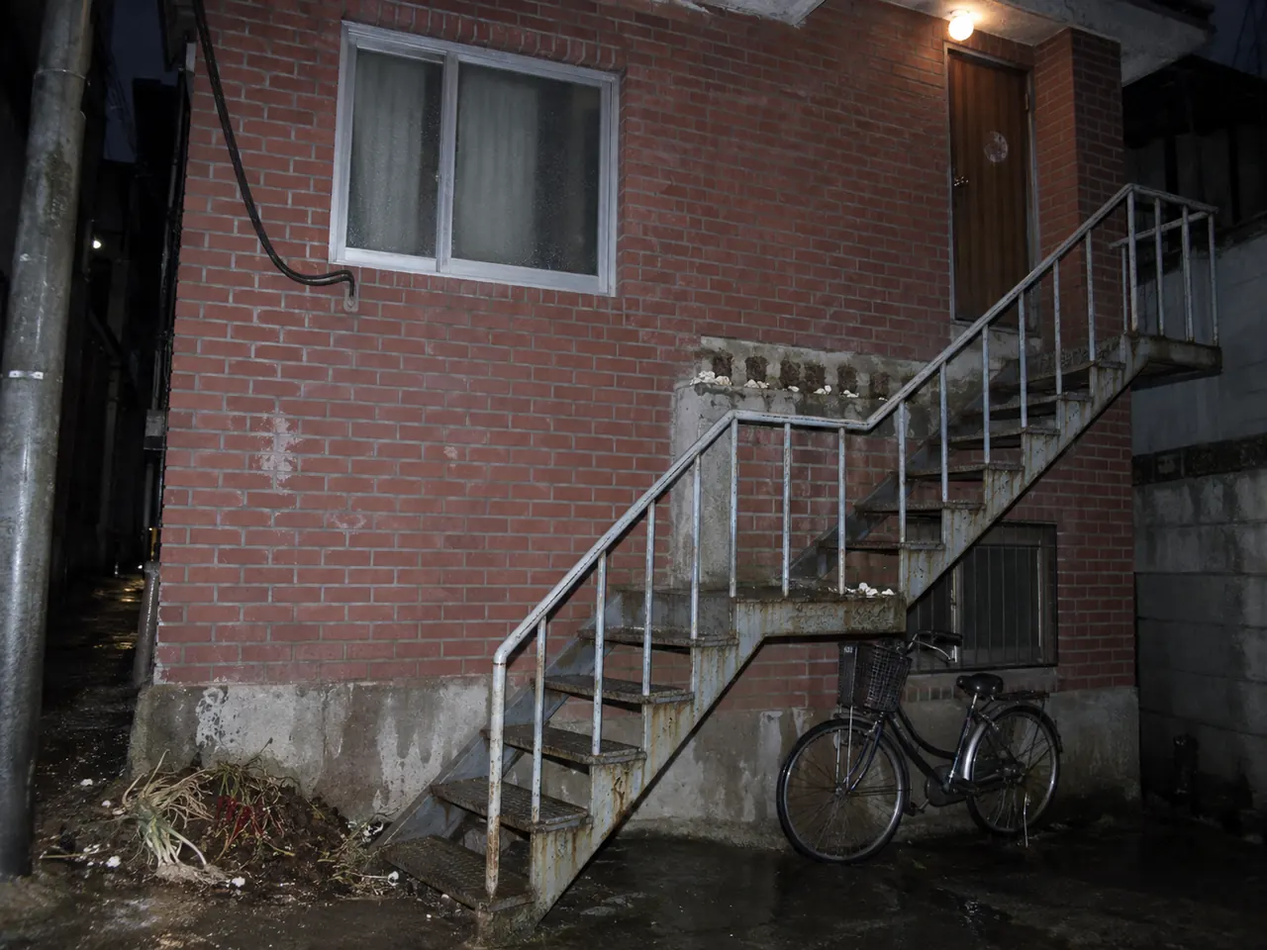
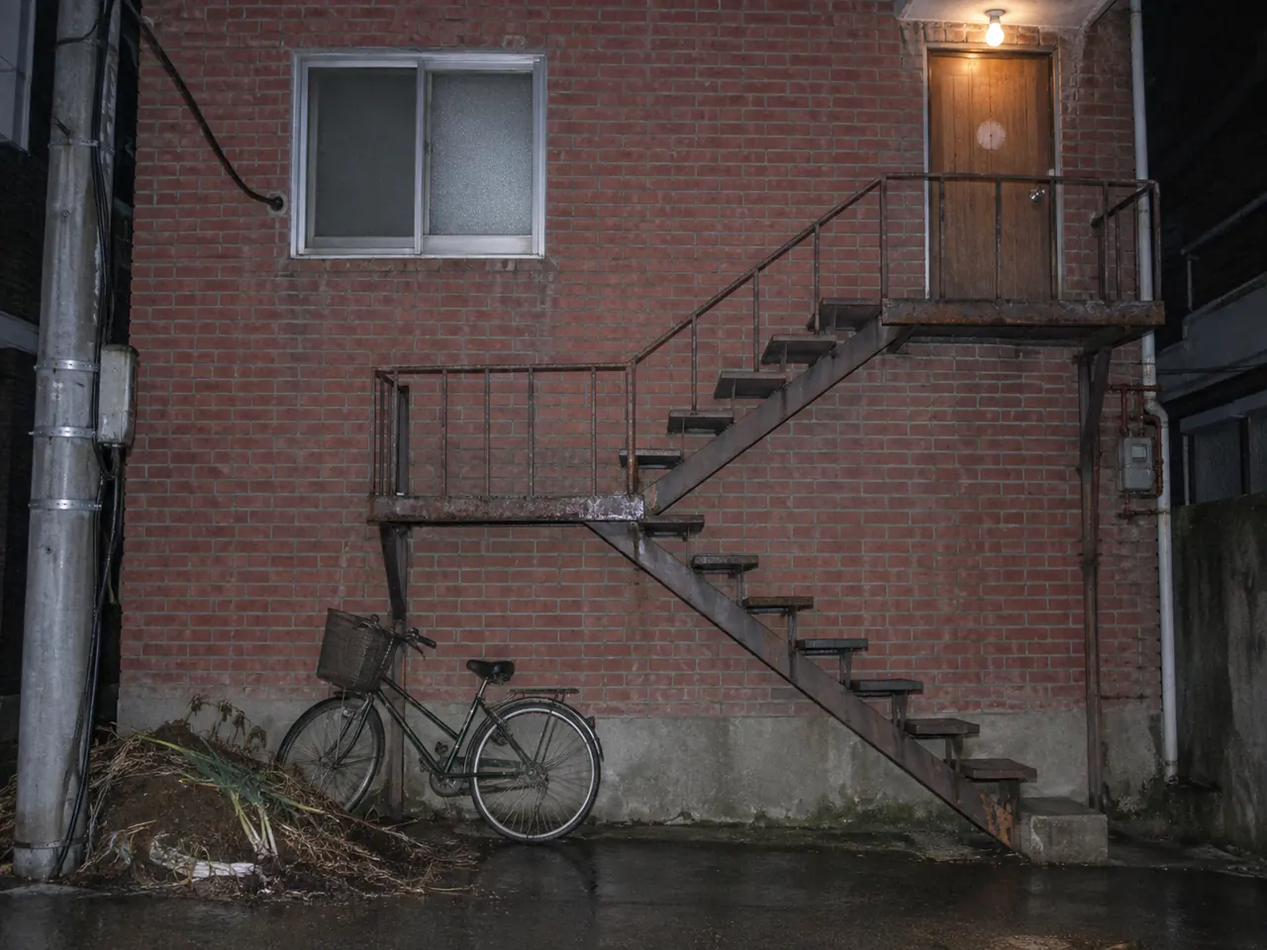
Take in redrawn c09 ph217/ph219 and c11 cut_ev
- ph217: Z-shaped steel stair (concrete base + 7 treads, landing, 5 treads);
  styrofoam boxes painted out of the landing (story: thrown away 10.16)
- ph219: L-shaped concrete stair turning left; upper flight came out 8 steps,
  kept as an optional redo
- cut_ev: single cast on black with scale bar, matches the pull-saw reference
- Spots re-placed on both photos; step text mentions the concrete base step

diff --git a/cases/c09-seoul-2006.js b/cases/c09-seoul-2006.js
@@ -107,18 +107,18 @@
           { id: 'ph217', title: '217-3 · 외부 계단과 2층 현관', meta: '탐문 반 촬영 2006.10.22 21:50 · 디지털카메라 · 플래시', art: 'ph217',
             intro: ['2층 부재. 1층 할머니는 주무신다. 골목에서 올려다보고 찍은 한 장.'],
             spots: [
-              { id: 'sp217_steps', x: 47, y: 76, r: 9, label: '철계단 — 칸 수', body: [{ p: '쇠 디딤판을 아래부터 센다. 여덟 칸을 오르면 좁은 계단참, 거기서 몸을 돌려 다섯 칸 더. 모두 열세 칸. 디딤판마다 녹 사이로 발 닿는 자리가 반들반들하다.', f: 'f_house_match' }] },
-              { id: 'sp217_landing', x: 63, y: 39, r: 7, label: '계단참 바닥', body: [{ p: '계단참 철판에 네모난 흙 자국이 여섯, 나란히. 가장자리에 하얀 스티로폼 부스러기. 무언가를 들어낸 지 얼마 안 됐다.', f: 'f_landing_marks' }] },
-              { id: 'sp217_door', x: 78, y: 25, r: 5, label: '2층 현관문', body: [{ p: '나무문, 열쇠 구멍 하나 — 도어락 없음. 계단 끝에서 바로 오른쪽. 눈높이에 동그랗게 색이 바랜 자리가 있다. 스티커를 뗀 자국, 가장자리에 노란 종이 부스러기.', f: 'f_sticker_gone' }] },
-              { id: 'sp217_wire', x: 22, y: 26, r: 5, label: '전화선', body: ['전봇대에서 내려온 검은 전화선 한 가닥이 2층 창 옆 벽으로 들어간다. 1층 선은 따로, 아래쪽으로 들어간다.'] },
-              { id: 'sp217_soil', x: 13, y: 92, r: 7, label: '담 밑', body: ['담 밑에 흙을 쏟아 버린 자리. 마른 파 뿌리와 고추 꼭지가 섞였다. 비에 반쯤 쓸려 갔다.'] },
+              { id: 'sp217_steps', x: 65.5, y: 68, r: 10, label: '철계단 — 칸 수', body: [{ p: '아래부터 센다. 맨 아래 콘크리트 받침 한 칸, 그 위로 쇠 디딤판 일곱 — 여덟 칸을 오르면 좁은 계단참, 거기서 몸을 돌려 쇠 디딤판 다섯 칸 더. 모두 열세 칸. 디딤판마다 녹 사이로 발 닿는 자리가 반들반들하다.', f: 'f_house_match' }] },
+              { id: 'sp217_landing', x: 40, y: 51.5, r: 8, label: '계단참 바닥', body: [{ p: '계단참 철판에 네모난 흙 자국이 여섯, 나란히. 가장자리에 하얀 스티로폼 부스러기. 무언가를 들어낸 지 얼마 안 됐다.', f: 'f_landing_marks' }] },
+              { id: 'sp217_door', x: 78, y: 18, r: 6, label: '2층 현관문', body: [{ p: '나무문, 열쇠 구멍 하나 — 도어락 없음. 계단 끝에서 바로 오른쪽. 눈높이에 동그랗게 색이 바랜 자리가 있다. 스티커를 뗀 자국, 가장자리에 노란 종이 부스러기.', f: 'f_sticker_gone' }] },
+              { id: 'sp217_wire', x: 18.5, y: 18, r: 6, label: '전화선', body: ['전봇대에서 내려온 검은 전화선 한 가닥이 2층 창 옆 벽으로 들어간다. 1층 선은 따로, 아래쪽으로 들어간다.'] },
+              { id: 'sp217_soil', x: 13.8, y: 83, r: 8, label: '담 밑', body: ['담 밑에 흙을 쏟아 버린 자리. 마른 파 뿌리와 고추 꼭지가 섞였다. 비에 반쯤 쓸려 갔다.'] },
             ] },
           { id: 'ph219', title: '219-8 · 외부 계단과 2층 현관', meta: '탐문 반 촬영 2006.10.23 22:05 · 디지털카메라 · 플래시', art: 'ph219',
             intro: ['2층 교회 사택은 비어 있었다. 1층 권사님 허락을 받고 마당에서 찍은 한 장.'],
             spots: [
-              { id: 'sp219_steps', x: 30, y: 75, r: 11, label: '계단 — 칸 수', body: ['일곱 칸 오르고 꺾여 여섯 칸 — 모두 열셋. 그런데 디딤판이 콘크리트다. 밟아도 울리지 않는다. 쇠는 난간뿐.'] },
-              { id: 'sp219_pots', x: 36, y: 40, r: 6, label: '계단참', body: ['제라늄 화분 셋. 1층 권사님 것. 스티로폼 상자는 없다.'] },
-              { id: 'sp219_door', x: 41, y: 18, r: 6, label: '2층 현관문', body: ['철문에 번호 도어락. 계단 끝에서 왼쪽. 노란 네모 스티커 — 숫자 37, 신문 구독 표시.'] },
+              { id: 'sp219_steps', x: 52.5, y: 75.5, r: 11, label: '계단 — 칸 수', body: ['일곱 칸 오르고 꺾여 여섯 칸 — 모두 열셋. 그런데 디딤판이 콘크리트다. 밟아도 울리지 않는다. 쇠는 난간뿐.'] },
+              { id: 'sp219_pots', x: 56.3, y: 50.8, r: 7, label: '계단참', body: ['제라늄 화분 셋. 1층 권사님 것. 스티로폼 상자는 없다.'] },
+              { id: 'sp219_door', x: 26.5, y: 14.5, r: 6, label: '2층 현관문', body: ['철문에 번호 도어락. 계단 끝에서 왼쪽. 노란 네모 스티커 — 숫자 37, 신문 구독 표시.'] },
             ] },
         ] },
       { id: 'ask', type: 'people', name: '탐문', desc: '수첩에 이름이 적힌 사람만 찾아갈 수 있다.' },
@@ -573,10 +573,9 @@
         prompt: 'Police canvass snapshot at night, 2006: a multi-family house with a poured concrete external staircase that turns once, three potted red geraniums on the landing, a door at the top with a small yellow square newspaper-subscription sticker. Harsh flash.' },
       house226: { use: '일제 탐문 카드 사진 — 226-2', ratio: '4:3', svg: house({ steps: 14, turn: 9, iron: true, bg: '#1b2029' }),
         prompt: 'Police canvass snapshot at night, 2006: a multi-family house on an uphill alley with a long external iron staircase turning once, many potted plants crowded in the small front yard below, a metal door with keypad lock. Harsh flash.' },
-      ph217: { svg: ph217, use: '정밀 관찰 사진', ratio: '4:3', prompt: 'Photograph taken from a narrow alley in Seoul in 2006, looking straight at the side wall of a two-storey red-brick multi-family house on a damp night. Fixed flat against the brick wall is a Z-shaped switchback exterior staircase of rusty steel with open treads: every tread is a separate steel plate with a dark gap above and below it, so the treads can be counted one by one. LOWER FLIGHT: exactly EIGHT treads, starting at the ground at the lower RIGHT and climbing diagonally up to the LEFT, to a narrow steel landing at mid-height in the centre of the wall. At the landing the staircase doubles back. UPPER FLIGHT: exactly FIVE treads climbing diagonally up to the RIGHT, the opposite direction to the lower flight, ending at a small top platform at the upper right. Thirteen treads in all. A wooden front door on the second floor stands immediately to the right of the last tread of the upper flight, with a bare bulb above it; the door has a single keyhole and no digital lock, and at eye height a round faded patch where a sticker was peeled off. On the steel floor of the landing six square soil marks in a neat row, left by pots that were taken away, with white styrofoam crumbs along the edge. A black telephone wire comes down from a utility pole at the far left and enters the wall beside a second-floor window at the upper left. At the foot of the wall at the lower left, dumped soil with dried scallion roots and pepper stems, half washed away by rain. A bicycle leans against the wall under the landing.', must: '철계단이 Z자로 꺾인다: 아래 단 여덟 칸 (오른쪽 아래 → 왼쪽 위) → 가운데 계단참 → 위 단 다섯 칸 (반대로 오른쪽 위) · 모두 열세 칸, 칸이 하나씩 셀 수 있게 · 계단참 바닥에 네모난 흙 자국 여섯 · 오른쪽 위 2층 나무문, 위 단 끝 바로 오른쪽 (도어락 없음, 스티커 뗀 둥근 자국) · 왼쪽 위 전화선 · 왼쪽 아래 담 밑 흙', avoid: '계단이 한 방향으로만 오르면 다시 뽑는다. 칸 수가 8 + 5 가 아니면 다시 뽑는다.', swap: 'svg', raster: true,
-        redo: { level: '필수', why: '계단이 꺾이지 않고 곧게 오른다 (다섯 칸 남짓 → 계단참 → 일곱 칸 남짓). 사건 제목이자 핵심 단서가 「여덟 칸 → 계단참에서 몸을 돌려 → 다섯 칸, 모두 열세 칸」이다. 계단참에서 방향이 반대로 꺾이는 두 단짜리 철계단으로, 아래 단 디딤판 여덟·위 단 다섯이 셀 수 있게. 문은 위 단 끝 바로 오른쪽, 눈높이에 스티커 뗀 둥근 자국.' } },
-      ph219: { svg: ph219, use: '정밀 관찰 사진', ratio: '4:3', prompt: 'Photograph taken from a small front yard in Seoul in 2006 of a two-storey rendered concrete house at night. An L-shaped exterior staircase of solid poured CONCRETE steps, not steel treads, with only a thin steel handrail. LOWER FLIGHT: exactly SEVEN concrete steps facing the camera, climbing straight up toward the house in the centre of the picture, to a square concrete landing against the wall. On the landing three geranium pots with red flowers. At the landing the stairs turn LEFT. UPPER FLIGHT: exactly SIX concrete steps seen from the side, climbing along the wall toward the upper left, to a small top platform in front of a steel door on the second floor at the upper left. Thirteen steps in all. The steel door has a digital keypad lock and a small plain yellow square sticker with nothing on it. A window at the upper right, a first-floor door at the lower right. No second small staircase anywhere.', must: '콘크리트 계단이 L자로 꺾인다: 아래 일곱 칸 (정면, 가운데) → 계단참 → 왼쪽으로 꺾여 여섯 칸 (옆모습) · 계단참에 제라늄 화분 셋 · 왼쪽 위 2층 철문 (번호 도어락, 노란 네모 스티커) · 오른쪽 위 창, 오른쪽 아래 1층 문', avoid: '계단이 곧게 올라 문에 닿거나, 따로 떨어진 작은 계단이 또 생기면 다시 뽑는다.', swap: 'svg', raster: true,
-        redo: { level: '선택', why: '콘크리트 계단이 여덟 칸 곧게 올라 문 앞 계단참에 닿는다 — 본문은 「일곱 칸 → 꺾여 여섯 칸」. 화분 셋·도어락·노란 스티커·콘크리트 디딤판은 맞다. 계단참에서 왼쪽으로 꺾여 여섯 칸 더 올라 문에 닿게.' } },
+      ph217: { svg: ph217, use: '정밀 관찰 사진', ratio: '4:3', prompt: 'Photograph taken from a narrow alley in Seoul in 2006, looking straight at the side wall of a two-storey red-brick multi-family house on a damp night. Fixed flat against the brick wall is a Z-shaped switchback exterior staircase of rusty steel with open treads: every tread is a separate steel plate with a dark gap above and below it, so the treads can be counted one by one. LOWER FLIGHT: exactly EIGHT treads, starting at the ground at the lower RIGHT and climbing diagonally up to the LEFT, to a narrow steel landing at mid-height in the centre of the wall. At the landing the staircase doubles back. UPPER FLIGHT: exactly FIVE treads climbing diagonally up to the RIGHT, the opposite direction to the lower flight, ending at a small top platform at the upper right. Thirteen treads in all. A wooden front door on the second floor stands immediately to the right of the last tread of the upper flight, with a bare bulb above it; the door has a single keyhole and no digital lock, and at eye height a round faded patch where a sticker was peeled off. On the steel floor of the landing six square soil marks in a neat row, left by pots that were taken away, with white styrofoam crumbs along the edge. A black telephone wire comes down from a utility pole at the far left and enters the wall beside a second-floor window at the upper left. At the foot of the wall at the lower left, dumped soil with dried scallion roots and pepper stems, half washed away by rain. A bicycle leans against the wall under the landing.', must: '철계단이 Z자로 꺾인다: 아래 단 여덟 칸 (오른쪽 아래 → 왼쪽 위) → 가운데 계단참 → 위 단 다섯 칸 (반대로 오른쪽 위) · 모두 열세 칸, 칸이 하나씩 셀 수 있게 · 계단참 바닥에 네모난 흙 자국 여섯 · 오른쪽 위 2층 나무문, 위 단 끝 바로 오른쪽 (도어락 없음, 스티커 뗀 둥근 자국) · 왼쪽 위 전화선 · 왼쪽 아래 담 밑 흙', avoid: '계단이 한 방향으로만 오르면 다시 뽑는다. 칸 수가 8 + 5 가 아니면 다시 뽑는다.', swap: 'svg', raster: true },
+      ph219: { svg: ph219, use: '정밀 관찰 사진', ratio: '4:3', prompt: 'Photograph taken from a small front yard in Seoul in 2006 of a two-storey rendered concrete house at night. An L-shaped exterior staircase of solid poured CONCRETE steps, not steel treads, with only a thin steel handrail. LOWER FLIGHT: exactly SEVEN concrete steps facing the camera, climbing straight up toward the house in the centre of the picture, to a square concrete landing against the wall. On the landing three geranium pots with red flowers. At the landing the stairs turn LEFT. UPPER FLIGHT: exactly SIX concrete steps seen from the side (only six, fewer than the lower flight, each step clearly separate), climbing along the wall toward the upper left, to a small top platform in front of a steel door on the second floor at the upper left. Thirteen steps in all. The steel door has a digital keypad lock and a small plain yellow square sticker with nothing on it. A window at the upper right, a first-floor door at the lower right. No second small staircase anywhere.', must: '콘크리트 계단이 L자로 꺾인다: 아래 일곱 칸 (정면, 가운데) → 계단참 → 왼쪽으로 꺾여 여섯 칸 (옆모습) · 계단참에 제라늄 화분 셋 · 왼쪽 위 2층 철문 (번호 도어락, 노란 네모 스티커) · 오른쪽 위 창, 오른쪽 아래 1층 문', avoid: '계단이 곧게 올라 문에 닿거나, 따로 떨어진 작은 계단이 또 생기면 다시 뽑는다. 위 단이 여섯 칸이 아니면 다시 뽑는다 (2차는 여덟 칸이었다). 위 단 디딤판이 옆에서 하나씩 셀 수 있게.', swap: 'svg', raster: true,
+        redo: { level: '선택', why: '2차: 아래 일곱 칸 → 계단참 → 왼쪽으로 꺾임은 맞다. 위 단이 여덟 칸으로 나왔다 (본문은 여섯 칸, 모두 열셋). 위 단만 여섯 칸으로.' } },
       house230: { use: '일제 탐문 카드 사진 — 230-5', ratio: '4:3', svg: house({ steps: 16, turn: 6, iron: true, bg: '#1b2029' }),
         prompt: 'Police canvass snapshot at night, 2006: an older brick house with a tall external iron staircase that switches back twice up to a rooftop, styrofoam vegetable boxes visible at the roof edge, a plain door with a key lock. Harsh flash.' },
     },

diff --git a/cases/c11-riverside-1986.js b/cases/c11-riverside-1986.js
@@ -703,8 +703,7 @@
         must: '불 끈 가게 바닥 거의 전체가 푸르게 빛난다' },
 
       /* 대조 감정 — SVG 전용 */
-      cut_ev: { svg: cut('cev', curved(1.1, '<path d="M18 12 l7 3 M22 9 l7 3 M27 13 l6 3" stroke-width="1.5"/>')), use: '대조 감정 시료', ratio: '3:2', prompt: 'Macro forensic laboratory photograph of ONE single object: a flat oval grey silicone cast lying horizontally and filling most of the frame, on a plain matte pure-black background, lit by low raking light from the upper left, sharp focus, neutral grey monochrome, fine photographic grain, 3:2 frame. A small black-and-white segmented scale bar lies flat in the lower right corner. Down the middle of the oval runs a wide horizontal saw groove. Inside the groove about nine raised ridges cross it, spaced fairly wide apart (about 2.5 to 3 mm), each ridge bowed into a curved arc and leaning toward the right, as if the stroke was pulled to one side. At the left end of the groove three or four short, overlapping false-start nicks sit slightly above and below the main groove, where the cut was restarted in slightly different places. Only the silicone cast and the scale bar: no saw, no tools, no hands, no bone, no flesh, no blood, no sacks, no people, no room, no second panel, no collage, no inset, no text or numbers.', must: '검은 바탕에 회색 실리콘 본 하나 + 오른쪽 아래 눈금자 · 줄무늬 간격 넓음 (아홉 줄 남짓) · 활처럼 휜 결, 한쪽으로 당겨짐 · 왼쪽 끝에 시작 자국 서너 개 · 피·뼈·살·톱 없음', avoid: '여러 장면을 이어 붙이거나 톱·포대·핏자국이 나오면 다시 뽑는다. 대조 시료 cut_a~d 와 같은 구도 (가로 타원, 검은 바탕, 오른쪽 아래 눈금자).', own: true, swap: 'svg', raster: true,
-        redo: { level: '선택', why: '여러 장면을 이어 붙인 콜라주로 나왔다 (양날톱·핏자국·포대를 나르는 장면까지 — 정답을 흘리고 잔혹함). 가운데 실리콘 본만 잘라 쓰고 있다. 검은 바탕에 본 하나와 자만 있는 한 장으로.' } },
+      cut_ev: { svg: cut('cev', curved(1.1, '<path d="M18 12 l7 3 M22 9 l7 3 M27 13 l6 3" stroke-width="1.5"/>')), use: '대조 감정 시료', ratio: '3:2', prompt: 'Macro forensic laboratory photograph of ONE single object: a flat oval grey silicone cast lying horizontally and filling most of the frame, on a plain matte pure-black background, lit by low raking light from the upper left, sharp focus, neutral grey monochrome, fine photographic grain, 3:2 frame. A small black-and-white segmented scale bar lies flat in the lower right corner. Down the middle of the oval runs a wide horizontal saw groove. Inside the groove about nine raised ridges cross it, spaced fairly wide apart (about 2.5 to 3 mm), each ridge bowed into a curved arc and leaning toward the right, as if the stroke was pulled to one side. At the left end of the groove three or four short, overlapping false-start nicks sit slightly above and below the main groove, where the cut was restarted in slightly different places. Only the silicone cast and the scale bar: no saw, no tools, no hands, no bone, no flesh, no blood, no sacks, no people, no room, no second panel, no collage, no inset, no text or numbers.', must: '검은 바탕에 회색 실리콘 본 하나 + 오른쪽 아래 눈금자 · 줄무늬 간격 넓음 (아홉 줄 남짓) · 활처럼 휜 결, 한쪽으로 당겨짐 · 왼쪽 끝에 시작 자국 서너 개 · 피·뼈·살·톱 없음', avoid: '여러 장면을 이어 붙이거나 톱·포대·핏자국이 나오면 다시 뽑는다. 대조 시료 cut_a~d 와 같은 구도 (가로 타원, 검은 바탕, 오른쪽 아래 눈금자).', own: true, swap: 'svg', raster: true },
       cut_a: { svg: cut('ca', A(32, i => `<line x1="${10 + i * 3.1}" y1="8" x2="${10 + i * 3.1}" y2="72" stroke-width=".6"/>`)), use: '대조 감정 시료', ratio: '3:2', prompt: 'Macro forensic photograph under raking light of a grey silicone cast of a test cut, an oval on a black background with a tiny scale bar: very fine, closely spaced straight striations (about 1.4 mm apart), thin and even, cut by pushing. Clinical, grey.', must: '촘촘하고 곧은 가는 줄무늬', swap: 'svg', raster: true },
       cut_b: { svg: cut('cb', A(9, i => `<line x1="${12 + i * 12}" y1="8" x2="${12 + i * 12}" y2="72" stroke-width="1.3"/>`)), use: '대조 감정 시료', ratio: '3:2', prompt: 'Macro forensic photograph under raking light of a grey silicone cast of a test cut made by a band saw machine, an oval on a black background with a tiny scale bar: perfectly straight, evenly spaced parallel striations (about 6 mm apart) as if ruled, no false starts. Clinical, grey.', must: '자로 잰 듯 곧고 고른 넓은 줄무늬 · 시작 자국 없음', swap: 'svg', raster: true },
       cut_c: { svg: cut('cc', A(48, i => `<line x1="${10 + i * 2.1}" y1="8" x2="${10 + i * 2.1}" y2="72" stroke-width=".35"/>`)), use: '대조 감정 시료', ratio: '3:2', prompt: 'Macro forensic photograph under raking light of a grey silicone cast of a test cut made by a hacksaw, an oval on a black background with a tiny scale bar: extremely fine striations under 1 mm apart, a narrow kerf, almost smooth. Clinical, grey.', must: '아주 고운 줄무늬 · 좁은 켠 자리', swap: 'svg', raster: true },

diff --git a/docs/IMAGE_REDO.md b/docs/IMAGE_REDO.md
@@ -2,39 +2,19 @@
 
 > `node tools/prompts.js` 가 자동으로 만든다. 사건 파일 `art` 항목의 `redo` 표시를 모은 것이다.
 
-총 **3장** (필수 1 · 강화 0 · 선택 2). 같은 경로·같은 이름으로 넣으면 게임 그림이 자동으로 바뀐다. 바꾼 뒤에는 그 항목의 `redo` 표시를 지운다.
+총 **1장** (필수 0 · 강화 0 · 선택 1). 같은 경로·같은 이름으로 넣으면 게임 그림이 자동으로 바뀐다. 바꾼 뒤에는 그 항목의 `redo` 표시를 지운다.
 
 - **필수**: 이야기·단서와 어긋나 꼭 다시 뽑아야 한다. **강화**: 빨간 별 사건의 수위를 올린 그림 (기존 교체 + 새 그림). **선택**: 지금도 쓸 만하지만 더 나아질 수 있다.
 
 | 그림 | 급함 | 이유 |
 |---|---|---|
-| `c09/ph217` | 필수 | 계단이 꺾이지 않고 곧게 오른다 (다섯 칸 남짓 → 계단참 → 일곱 칸 남짓). 사건 제목이자 핵심 단서가 「여덟 칸 → 계단참에서 몸을 돌려 → 다섯 칸, 모두 열세 칸」이다. 계단참에서 방향이 반대로 꺾이는 두 단짜리 철계단으로, 아래 단 디딤판 여덟·위 단 다섯이 셀 수 있게. 문은 위 단 끝 바로 오른쪽, 눈높이에 스티커 뗀 둥근 자국. |
-| `c09/ph219` | 선택 | 콘크리트 계단이 여덟 칸 곧게 올라 문 앞 계단참에 닿는다 — 본문은 「일곱 칸 → 꺾여 여섯 칸」. 화분 셋·도어락·노란 스티커·콘크리트 디딤판은 맞다. 계단참에서 왼쪽으로 꺾여 여섯 칸 더 올라 문에 닿게. |
-| `c11/cut_ev` | 선택 | 여러 장면을 이어 붙인 콜라주로 나왔다 (양날톱·핏자국·포대를 나르는 장면까지 — 정답을 흘리고 잔혹함). 가운데 실리콘 본만 잘라 쓰고 있다. 검은 바탕에 본 하나와 자만 있는 한 장으로. |
-
-## c09/ph217 — 정밀 관찰 사진 (필수)
-- 저장 경로: `img/c09/ph217.png` · 비율: 4:3
-- 이유: 계단이 꺾이지 않고 곧게 오른다 (다섯 칸 남짓 → 계단참 → 일곱 칸 남짓). 사건 제목이자 핵심 단서가 「여덟 칸 → 계단참에서 몸을 돌려 → 다섯 칸, 모두 열세 칸」이다. 계단참에서 방향이 반대로 꺾이는 두 단짜리 철계단으로, 아래 단 디딤판 여덟·위 단 다섯이 셀 수 있게. 문은 위 단 끝 바로 오른쪽, 눈높이에 스티커 뗀 둥근 자국.
-- **꼭 보여야 할 것**: 철계단이 Z자로 꺾인다: 아래 단 여덟 칸 (오른쪽 아래 → 왼쪽 위) → 가운데 계단참 → 위 단 다섯 칸 (반대로 오른쪽 위) · 모두 열세 칸, 칸이 하나씩 셀 수 있게 · 계단참 바닥에 네모난 흙 자국 여섯 · 오른쪽 위 2층 나무문, 위 단 끝 바로 오른쪽 (도어락 없음, 스티커 뗀 둥근 자국) · 왼쪽 위 전화선 · 왼쪽 아래 담 밑 흙
-- 주의: 계단이 한 방향으로만 오르면 다시 뽑는다. 칸 수가 8 + 5 가 아니면 다시 뽑는다.
-```
-Photograph taken from a narrow alley in Seoul in 2006, looking straight at the side wall of a two-storey red-brick multi-family house on a damp night. Fixed flat against the brick wall is a Z-shaped switchback exterior staircase of rusty steel with open treads: every tread is a separate steel plate with a dark gap above and below it, so the treads can be counted one by one. LOWER FLIGHT: exactly EIGHT treads, starting at the ground at the lower RIGHT and climbing diagonally up to the LEFT, to a narrow steel landing at mid-height in the centre of the wall. At the landing the staircase doubles back. UPPER FLIGHT: exactly FIVE treads climbing diagonally up to the RIGHT, the opposite direction to the lower flight, ending at a small top platform at the upper right. Thirteen treads in all. A wooden front door on the second floor stands immediately to the right of the last tread of the upper flight, with a bare bulb above it; the door has a single keyhole and no digital lock, and at eye height a round faded patch where a sticker was peeled off. On the steel floor of the landing six square soil marks in a neat row, left by pots that were taken away, with white styrofoam crumbs along the edge. A black telephone wire comes down from a utility pole at the far left and enters the wall beside a second-floor window at the upper left. At the foot of the wall at the lower left, dumped soil with dried scallion roots and pepper stems, half washed away by rain. A bicycle leans against the wall under the landing. Photo taken in 2006 with a cheap compact digital camera: 3-megapixel, visible sensor noise, flat on-camera flash at night with dark falloff behind the subject, slightly blown highlights, cool white balance, mild JPEG blockiness, casual amateur framing like a Korean mini-homepage photo album or a police canvass snapshot. Seoul low-rise residential alleys of the late 1980s–90s: red-brick multi-family houses with external iron staircases. People only from behind, blurred or out of frame; no faces, no readable text, no logos, nothing graphic. Show exactly what the prompt names: counts, colours and positions. If the style is black-and-white but an object has a named colour, keep that colour on that object only, as if hand-tinted. For still-life and evidence shots use a simple background: no window view, no street scene, no passers-by, no city skyline. Show no numerals or dates except those the prompt gives. Wherever text would appear (headlines, flyers, notes, signs), render it only as smeared grey bands or soft blurred strokes, never as crisp pseudo-Hangul, pseudo-kanji or pseudo-kana. One single image, no inset panels, no collage, no second version of the scene. No recognizable real landmarks unless the prompt names them. This image replaces a flat placeholder diagram in a detective game. Every clue object must sit where the prompt places it (left, right, top, bottom, middle), because the game puts clickable markers on those spots. Do not write any words, labels, numbers or captions anywhere; the game adds its own labels on top.
-```
+| `c09/ph219` | 선택 | 2차: 아래 일곱 칸 → 계단참 → 왼쪽으로 꺾임은 맞다. 위 단이 여덟 칸으로 나왔다 (본문은 여섯 칸, 모두 열셋). 위 단만 여섯 칸으로. |
 
 ## c09/ph219 — 정밀 관찰 사진 (선택)
 - 저장 경로: `img/c09/ph219.png` · 비율: 4:3
-- 이유: 콘크리트 계단이 여덟 칸 곧게 올라 문 앞 계단참에 닿는다 — 본문은 「일곱 칸 → 꺾여 여섯 칸」. 화분 셋·도어락·노란 스티커·콘크리트 디딤판은 맞다. 계단참에서 왼쪽으로 꺾여 여섯 칸 더 올라 문에 닿게.
+- 이유: 2차: 아래 일곱 칸 → 계단참 → 왼쪽으로 꺾임은 맞다. 위 단이 여덟 칸으로 나왔다 (본문은 여섯 칸, 모두 열셋). 위 단만 여섯 칸으로.
 - **꼭 보여야 할 것**: 콘크리트 계단이 L자로 꺾인다: 아래 일곱 칸 (정면, 가운데) → 계단참 → 왼쪽으로 꺾여 여섯 칸 (옆모습) · 계단참에 제라늄 화분 셋 · 왼쪽 위 2층 철문 (번호 도어락, 노란 네모 스티커) · 오른쪽 위 창, 오른쪽 아래 1층 문
-- 주의: 계단이 곧게 올라 문에 닿거나, 따로 떨어진 작은 계단이 또 생기면 다시 뽑는다.
+- 주의: 계단이 곧게 올라 문에 닿거나, 따로 떨어진 작은 계단이 또 생기면 다시 뽑는다. 위 단이 여섯 칸이 아니면 다시 뽑는다 (2차는 여덟 칸이었다). 위 단 디딤판이 옆에서 하나씩 셀 수 있게.
 ```
-Photograph taken from a small front yard in Seoul in 2006 of a two-storey rendered concrete house at night. An L-shaped exterior staircase of solid poured CONCRETE steps, not steel treads, with only a thin steel handrail. LOWER FLIGHT: exactly SEVEN concrete steps facing the camera, climbing straight up toward the house in the centre of the picture, to a square concrete landing against the wall. On the landing three geranium pots with red flowers. At the landing the stairs turn LEFT. UPPER FLIGHT: exactly SIX concrete steps seen from the side, climbing along the wall toward the upper left, to a small top platform in front of a steel door on the second floor at the upper left. Thirteen steps in all. The steel door has a digital keypad lock and a small plain yellow square sticker with nothing on it. A window at the upper right, a first-floor door at the lower right. No second small staircase anywhere. Photo taken in 2006 with a cheap compact digital camera: 3-megapixel, visible sensor noise, flat on-camera flash at night with dark falloff behind the subject, slightly blown highlights, cool white balance, mild JPEG blockiness, casual amateur framing like a Korean mini-homepage photo album or a police canvass snapshot. Seoul low-rise residential alleys of the late 1980s–90s: red-brick multi-family houses with external iron staircases. People only from behind, blurred or out of frame; no faces, no readable text, no logos, nothing graphic. Show exactly what the prompt names: counts, colours and positions. If the style is black-and-white but an object has a named colour, keep that colour on that object only, as if hand-tinted. For still-life and evidence shots use a simple background: no window view, no street scene, no passers-by, no city skyline. Show no numerals or dates except those the prompt gives. Wherever text would appear (headlines, flyers, notes, signs), render it only as smeared grey bands or soft blurred strokes, never as crisp pseudo-Hangul, pseudo-kanji or pseudo-kana. One single image, no inset panels, no collage, no second version of the scene. No recognizable real landmarks unless the prompt names them. This image replaces a flat placeholder diagram in a detective game. Every clue object must sit where the prompt places it (left, right, top, bottom, middle), because the game puts clickable markers on those spots. Do not write any words, labels, numbers or captions anywhere; the game adds its own labels on top.
-```
-
-## c11/cut_ev — 대조 감정 시료 (선택)
-- 저장 경로: `img/c11/cut_ev.png` · 비율: 3:2
-- 이유: 여러 장면을 이어 붙인 콜라주로 나왔다 (양날톱·핏자국·포대를 나르는 장면까지 — 정답을 흘리고 잔혹함). 가운데 실리콘 본만 잘라 쓰고 있다. 검은 바탕에 본 하나와 자만 있는 한 장으로.
-- **꼭 보여야 할 것**: 검은 바탕에 회색 실리콘 본 하나 + 오른쪽 아래 눈금자 · 줄무늬 간격 넓음 (아홉 줄 남짓) · 활처럼 휜 결, 한쪽으로 당겨짐 · 왼쪽 끝에 시작 자국 서너 개 · 피·뼈·살·톱 없음
-- 주의: 여러 장면을 이어 붙이거나 톱·포대·핏자국이 나오면 다시 뽑는다. 대조 시료 cut_a~d 와 같은 구도 (가로 타원, 검은 바탕, 오른쪽 아래 눈금자).
-```
-Macro forensic laboratory photograph of ONE single object: a flat oval grey silicone cast lying horizontally and filling most of the frame, on a plain matte pure-black background, lit by low raking light from the upper left, sharp focus, neutral grey monochrome, fine photographic grain, 3:2 frame. A small black-and-white segmented scale bar lies flat in the lower right corner. Down the middle of the oval runs a wide horizontal saw groove. Inside the groove about nine raised ridges cross it, spaced fairly wide apart (about 2.5 to 3 mm), each ridge bowed into a curved arc and leaning toward the right, as if the stroke was pulled to one side. At the left end of the groove three or four short, overlapping false-start nicks sit slightly above and below the main groove, where the cut was restarted in slightly different places. Only the silicone cast and the scale bar: no saw, no tools, no hands, no bone, no flesh, no blood, no sacks, no people, no room, no second panel, no collage, no inset, no text or numbers. This image replaces a flat placeholder diagram in a detective game. Every clue object must sit where the prompt places it (left, right, top, bottom, middle), because the game puts clickable markers on those spots. Do not write any words, labels, numbers or captions anywhere; the game adds its own labels on top.
+Photograph taken from a small front yard in Seoul in 2006 of a two-storey rendered concrete house at night. An L-shaped exterior staircase of solid poured CONCRETE steps, not steel treads, with only a thin steel handrail. LOWER FLIGHT: exactly SEVEN concrete steps facing the camera, climbing straight up toward the house in the centre of the picture, to a square concrete landing against the wall. On the landing three geranium pots with red flowers. At the landing the stairs turn LEFT. UPPER FLIGHT: exactly SIX concrete steps seen from the side (only six, fewer than the lower flight, each step clearly separate), climbing along the wall toward the upper left, to a small top platform in front of a steel door on the second floor at the upper left. Thirteen steps in all. The steel door has a digital keypad lock and a small plain yellow square sticker with nothing on it. A window at the upper right, a first-floor door at the lower right. No second small staircase anywhere. Photo taken in 2006 with a cheap compact digital camera: 3-megapixel, visible sensor noise, flat on-camera flash at night with dark falloff behind the subject, slightly blown highlights, cool white balance, mild JPEG blockiness, casual amateur framing like a Korean mini-homepage photo album or a police canvass snapshot. Seoul low-rise residential alleys of the late 1980s–90s: red-brick multi-family houses with external iron staircases. People only from behind, blurred or out of frame; no faces, no readable text, no logos, nothing graphic. Show exactly what the prompt names: counts, colours and positions. If the style is black-and-white but an object has a named colour, keep that colour on that object only, as if hand-tinted. For still-life and evidence shots use a simple background: no window view, no street scene, no passers-by, no city skyline. Show no numerals or dates except those the prompt gives. Wherever text would appear (headlines, flyers, notes, signs), render it only as smeared grey bands or soft blurred strokes, never as crisp pseudo-Hangul, pseudo-kanji or pseudo-kana. One single image, no inset panels, no collage, no second version of the scene. No recognizable real landmarks unless the prompt names them. This image replaces a flat placeholder diagram in a detective game. Every clue object must sit where the prompt places it (left, right, top, bottom, middle), because the game puts clickable markers on those spots. Do not write any words, labels, numbers or captions anywhere; the game adds its own labels on top.
 ```

diff --git a/docs/IMAGE_SVG.md b/docs/IMAGE_SVG.md
@@ -182,7 +182,7 @@ Photograph taken from a narrow alley in Seoul in 2006, looking straight at the s
 - 저장 경로: `img/c09/ph219.png` · 비율: 4:3
 - **꼭 보여야 할 것**: 콘크리트 계단이 L자로 꺾인다: 아래 일곱 칸 (정면, 가운데) → 계단참 → 왼쪽으로 꺾여 여섯 칸 (옆모습) · 계단참에 제라늄 화분 셋 · 왼쪽 위 2층 철문 (번호 도어락, 노란 네모 스티커) · 오른쪽 위 창, 오른쪽 아래 1층 문
 ```
-Photograph taken from a small front yard in Seoul in 2006 of a two-storey rendered concrete house at night. An L-shaped exterior staircase of solid poured CONCRETE steps, not steel treads, with only a thin steel handrail. LOWER FLIGHT: exactly SEVEN concrete steps facing the camera, climbing straight up toward the house in the centre of the picture, to a square concrete landing against the wall. On the landing three geranium pots with red flowers. At the landing the stairs turn LEFT. UPPER FLIGHT: exactly SIX concrete steps seen from the side, climbing along the wall toward the upper left, to a small top platform in front of a steel door on the second floor at the upper left. Thirteen steps in all. The steel door has a digital keypad lock and a small plain yellow square sticker with nothing on it. A window at the upper right, a first-floor door at the lower right. No second small staircase anywhere. Photo taken in 2006 with a cheap compact digital camera: 3-megapixel, visible sensor noise, flat on-camera flash at night with dark falloff behind the subject, slightly blown highlights, cool white balance, mild JPEG blockiness, casual amateur framing like a Korean mini-homepage photo album or a police canvass snapshot. Seoul low-rise residential alleys of the late 1980s–90s: red-brick multi-family houses with external iron staircases. People only from behind, blurred or out of frame; no faces, no readable text, no logos, nothing graphic. Show exactly what the prompt names: counts, colours and positions. If the style is black-and-white but an object has a named colour, keep that colour on that object only, as if hand-tinted. For still-life and evidence shots use a simple background: no window view, no street scene, no passers-by, no city skyline. Show no numerals or dates except those the prompt gives. Wherever text would appear (headlines, flyers, notes, signs), render it only as smeared grey bands or soft blurred strokes, never as crisp pseudo-Hangul, pseudo-kanji or pseudo-kana. One single image, no inset panels, no collage, no second version of the scene. No recognizable real landmarks unless the prompt names them. This image replaces a flat placeholder diagram in a detective game. Every clue object must sit where the prompt places it (left, right, top, bottom, middle), because the game puts clickable markers on those spots. Do not write any words, labels, numbers or captions anywhere; the game adds its own labels on top.
+Photograph taken from a small front yard in Seoul in 2006 of a two-storey rendered concrete house at night. An L-shaped exterior staircase of solid poured CONCRETE steps, not steel treads, with only a thin steel handrail. LOWER FLIGHT: exactly SEVEN concrete steps facing the camera, climbing straight up toward the house in the centre of the picture, to a square concrete landing against the wall. On the landing three geranium pots with red flowers. At the landing the stairs turn LEFT. UPPER FLIGHT: exactly SIX concrete steps seen from the side (only six, fewer than the lower flight, each step clearly separate), climbing along the wall toward the upper left, to a small top platform in front of a steel door on the second floor at the upper left. Thirteen steps in all. The steel door has a digital keypad lock and a small plain yellow square sticker with nothing on it. A window at the upper right, a first-floor door at the lower right. No second small staircase anywhere. Photo taken in 2006 with a cheap compact digital camera: 3-megapixel, visible sensor noise, flat on-camera flash at night with dark falloff behind the subject, slightly blown highlights, cool white balance, mild JPEG blockiness, casual amateur framing like a Korean mini-homepage photo album or a police canvass snapshot. Seoul low-rise residential alleys of the late 1980s–90s: red-brick multi-family houses with external iron staircases. People only from behind, blurred or out of frame; no faces, no readable text, no logos, nothing graphic. Show exactly what the prompt names: counts, colours and positions. If the style is black-and-white but an object has a named colour, keep that colour on that object only, as if hand-tinted. For still-life and evidence shots use a simple background: no window view, no street scene, no passers-by, no city skyline. Show no numerals or dates except those the prompt gives. Wherever text would appear (headlines, flyers, notes, signs), render it only as smeared grey bands or soft blurred strokes, never as crisp pseudo-Hangul, pseudo-kanji or pseudo-kana. One single image, no inset panels, no collage, no second version of the scene. No recognizable real landmarks unless the prompt names them. This image replaces a flat placeholder diagram in a detective game. Every clue object must sit where the prompt places it (left, right, top, bottom, middle), because the game puts clickable markers on those spots. Do not write any words, labels, numbers or captions anywhere; the game adds its own labels on top.
 ```
 
 ## c11/cut_ev — 대조 시료 · 물길을 거슬러 ✅

diff --git a/docs/IMAGE_PROMPTS.md b/docs/IMAGE_PROMPTS.md
@@ -1005,7 +1005,7 @@ Police canvass snapshot at night, 2006: a multi-family house with a poured concr
 Police canvass snapshot at night, 2006: a multi-family house on an uphill alley with a long external iron staircase turning once, many potted plants crowded in the small front yard below, a metal door with keypad lock. Harsh flash.
 ```
 
-### c09/ph217 — 정밀 관찰 사진 🔁 다시 뽑기
+### c09/ph217 — 정밀 관찰 사진
 - 저장 경로: `img/c09/ph217.webp` · 비율: 4:3
 ```
 Photograph taken from a narrow alley in Seoul in 2006, looking straight at the side wall of a two-storey red-brick multi-family house on a damp night. Fixed flat against the brick wall is a Z-shaped switchback exterior staircase of rusty steel with open treads: every tread is a separate steel plate with a dark gap above and below it, so the treads can be counted one by one. LOWER FLIGHT: exactly EIGHT treads, starting at the ground at the lower RIGHT and climbing diagonally up to the LEFT, to a narrow steel landing at mid-height in the centre of the wall. At the landing the staircase doubles back. UPPER FLIGHT: exactly FIVE treads climbing diagonally up to the RIGHT, the opposite direction to the lower flight, ending at a small top platform at the upper right. Thirteen treads in all. A wooden front door on the second floor stands immediately to the right of the last tread of the upper flight, with a bare bulb above it; the door has a single keyhole and no digital lock, and at eye height a round faded patch where a sticker was peeled off. On the steel floor of the landing six square soil marks in a neat row, left by pots that were taken away, with white styrofoam crumbs along the edge. A black telephone wire comes down from a utility pole at the far left and enters the wall beside a second-floor window at the upper left. At the foot of the wall at the lower left, dumped soil with dried scallion roots and pepper stems, half washed away by rain. A bicycle leans against the wall under the landing.
@@ -1016,10 +1016,10 @@ Photograph taken from a narrow alley in Seoul in 2006, looking straight at the s
 ### c09/ph219 — 정밀 관찰 사진 🔁 다시 뽑기
 - 저장 경로: `img/c09/ph219.webp` · 비율: 4:3
 ```
-Photograph taken from a small front yard in Seoul in 2006 of a two-storey rendered concrete house at night. An L-shaped exterior staircase of solid poured CONCRETE steps, not steel treads, with only a thin steel handrail. LOWER FLIGHT: exactly SEVEN concrete steps facing the camera, climbing straight up toward the house in the centre of the picture, to a square concrete landing against the wall. On the landing three geranium pots with red flowers. At the landing the stairs turn LEFT. UPPER FLIGHT: exactly SIX concrete steps seen from the side, climbing along the wall toward the upper left, to a small top platform in front of a steel door on the second floor at the upper left. Thirteen steps in all. The steel door has a digital keypad lock and a small plain yellow square sticker with nothing on it. A window at the upper right, a first-floor door at the lower right. No second small staircase anywhere.
+Photograph taken from a small front yard in Seoul in 2006 of a two-storey rendered concrete house at night. An L-shaped exterior staircase of solid poured CONCRETE steps, not steel treads, with only a thin steel handrail. LOWER FLIGHT: exactly SEVEN concrete steps facing the camera, climbing straight up toward the house in the centre of the picture, to a square concrete landing against the wall. On the landing three geranium pots with red flowers. At the landing the stairs turn LEFT. UPPER FLIGHT: exactly SIX concrete steps seen from the side (only six, fewer than the lower flight, each step clearly separate), climbing along the wall toward the upper left, to a small top platform in front of a steel door on the second floor at the upper left. Thirteen steps in all. The steel door has a digital keypad lock and a small plain yellow square sticker with nothing on it. A window at the upper right, a first-floor door at the lower right. No second small staircase anywhere.
 ```
 - **꼭 보여야 할 것**: 콘크리트 계단이 L자로 꺾인다: 아래 일곱 칸 (정면, 가운데) → 계단참 → 왼쪽으로 꺾여 여섯 칸 (옆모습) · 계단참에 제라늄 화분 셋 · 왼쪽 위 2층 철문 (번호 도어락, 노란 네모 스티커) · 오른쪽 위 창, 오른쪽 아래 1층 문
-- 주의: 계단이 곧게 올라 문에 닿거나, 따로 떨어진 작은 계단이 또 생기면 다시 뽑는다.
+- 주의: 계단이 곧게 올라 문에 닿거나, 따로 떨어진 작은 계단이 또 생기면 다시 뽑는다. 위 단이 여섯 칸이 아니면 다시 뽑는다 (2차는 여덟 칸이었다). 위 단 디딤판이 옆에서 하나씩 셀 수 있게.
 
 ### c09/house230 — 일제 탐문 카드 사진 — 230-5
 - 저장 경로: `img/c09/house230.webp` · 비율: 4:3
@@ -1213,7 +1213,7 @@ Darkroom luminol photograph from 1986, a 30-second exposure inside a tiny market
 ```
 - **꼭 보여야 할 것**: 불 끈 가게 바닥 거의 전체가 푸르게 빛난다
 
-### c11/cut_ev — 대조 감정 시료 🔁 다시 뽑기
+### c11/cut_ev — 대조 감정 시료
 - 저장 경로: `img/c11/cut_ev.webp` · 비율: 3:2
 - 이 그림은 **공통 스타일을 붙이지 않는다** (지도·손 스케치·증거물 접사처럼 프롬프트 안에 그림체가 들어 있다).
 ```
